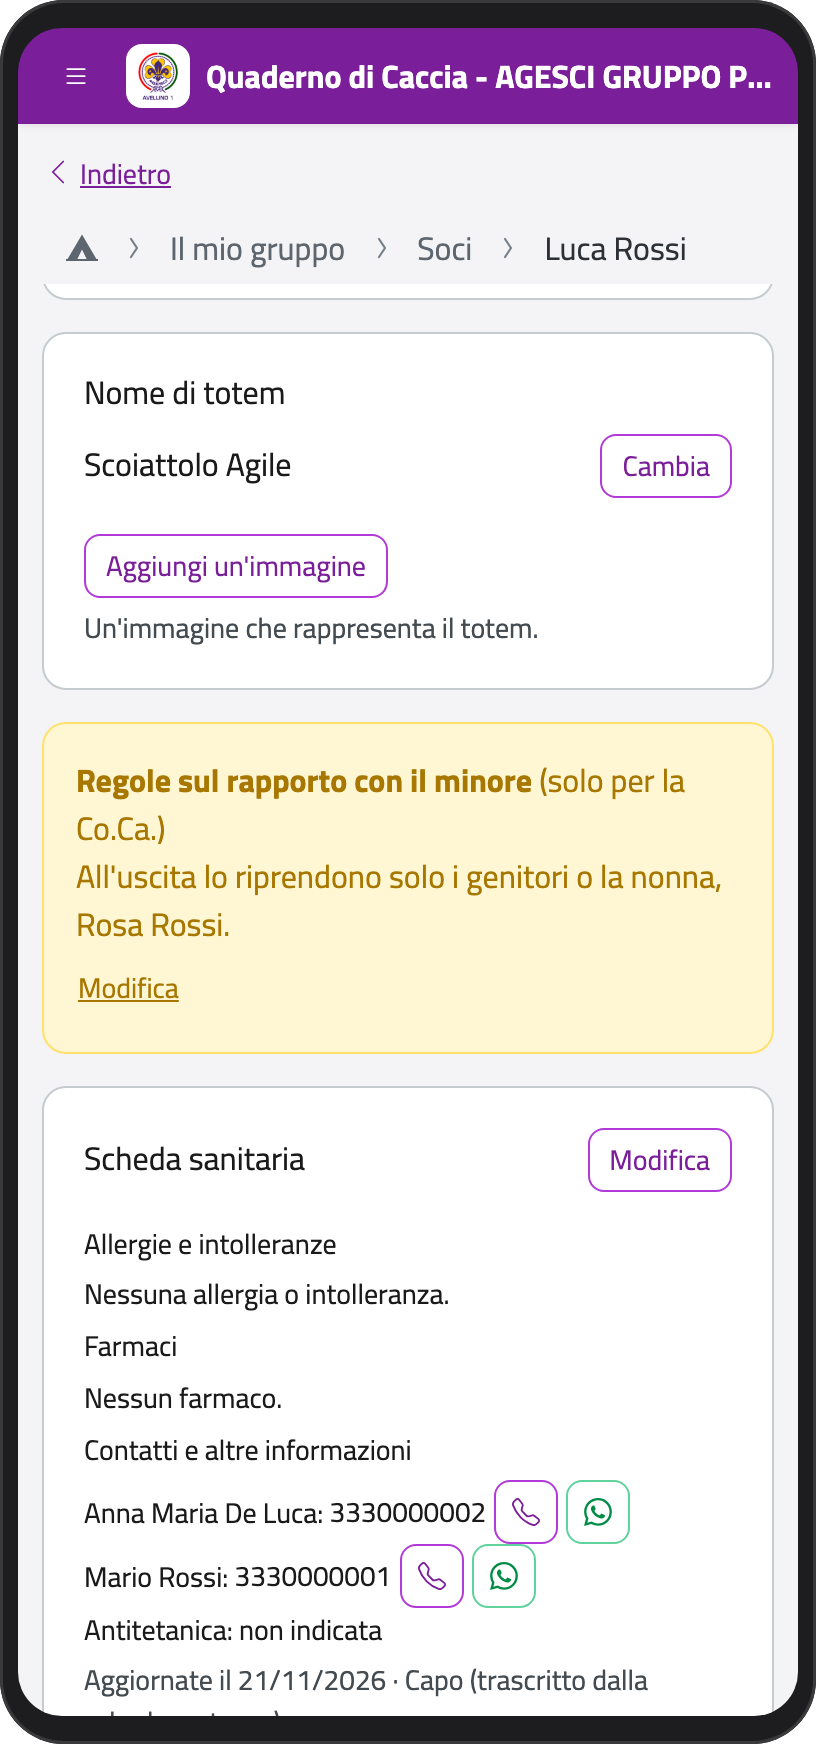
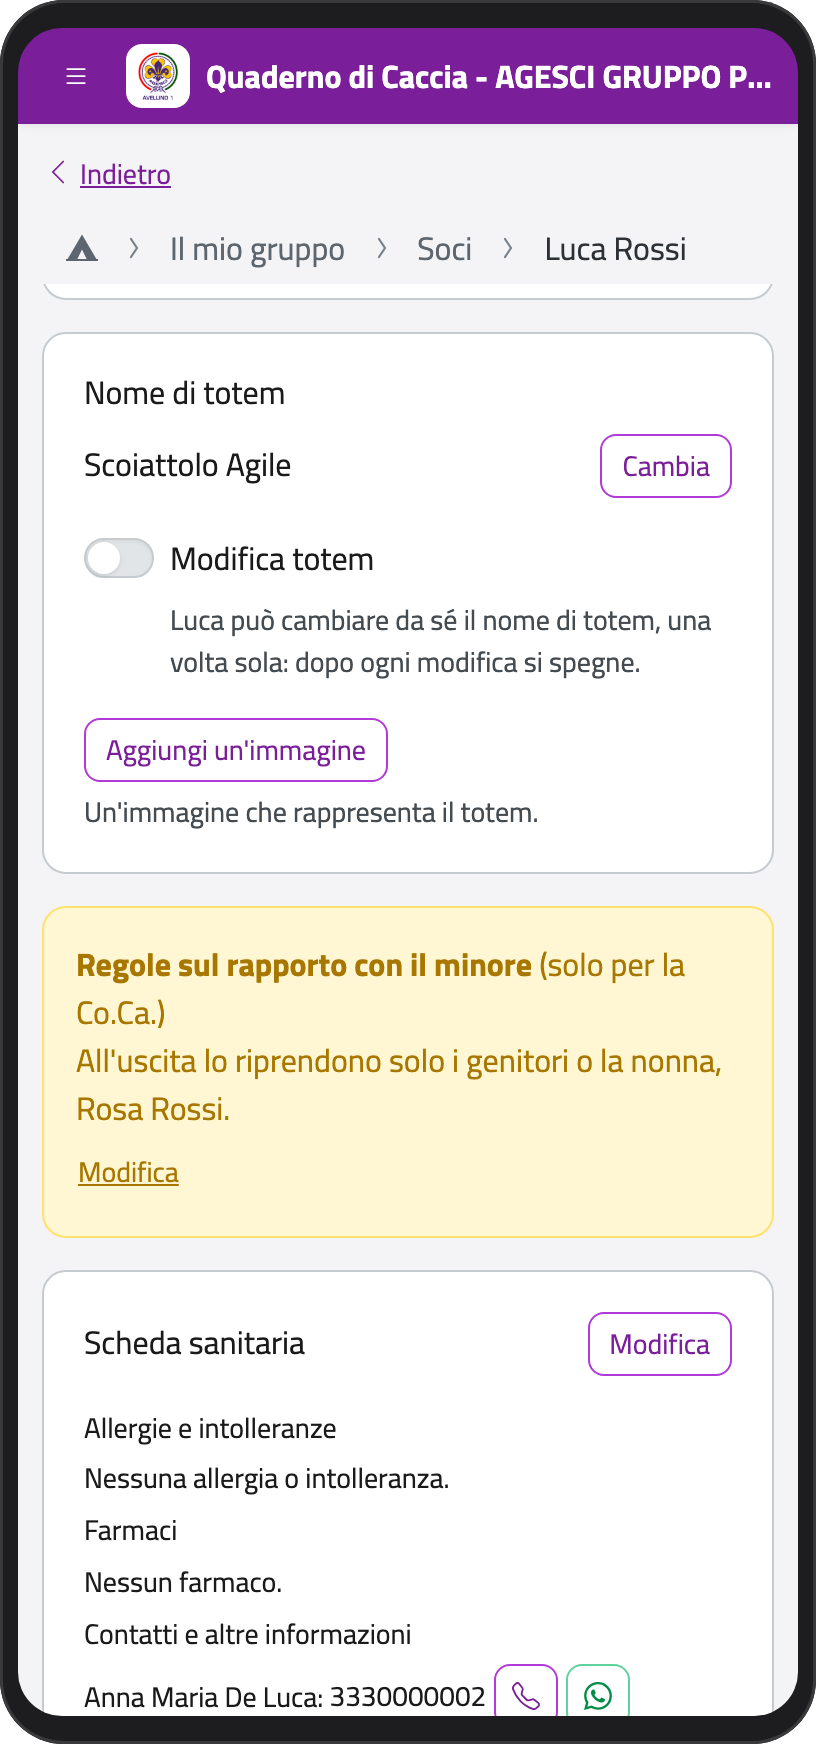
Version 1.38.0
Claude-Session: https://claude.ai/code/session_01FnZgpZh5fbWhbFRbufvRz7

Changed region(s): [[0.0306, 0.3096, 0.9498, 0.9908], [0.7353, 0.7431, 0.8578, 0.7741], [0.8272, 0.3406, 0.8578, 0.3716]]

diff --git a/TODO.md b/TODO.md
@@ -2,7 +2,7 @@
 
 Situazione delle [issue](https://github.com/AGESCI-Avellino-1/quaderno-di-caccia/issues) e delle
 [segnalazioni di sicurezza](https://github.com/AGESCI-Avellino-1/quaderno-di-caccia/security/advisories)
-su GitHub, aggiornata il 23/11/2026 (ultima versione: v1.37.0). Le cose ancora aperte del periodo di
+su GitHub, aggiornata il 23/11/2026 (ultima versione: v1.38.0). Le cose ancora aperte del periodo di
 sviluppo sono in [TODO_SVILUPPO.md](TODO_SVILUPPO.md).
 
 ## Aperte
@@ -12,7 +12,7 @@ sviluppo sono in [TODO_SVILUPPO.md](TODO_SVILUPPO.md).
 | [#83](https://github.com/AGESCI-Avellino-1/quaderno-di-caccia/issues/83) | Lista d'attesa: collegamento a «Invita nel gruppo» per i capi     | Miglioramento | Basso   | Bassa      | VER    |
 | [#85](https://github.com/AGESCI-Avellino-1/quaderno-di-caccia/issues/85) | Nome di totem dei soci e pagina «La mia tribù» (DEC-416)          | Funzione      | Basso   | Media      | VER    |
 | [#86](https://github.com/AGESCI-Avellino-1/quaderno-di-caccia/issues/86) | Compleanni: notifica del giorno e «Prossimi compleanni» (DEC-417) | Funzione      | Basso   | Media      | VER    |
-| [#87](https://github.com/AGESCI-Avellino-1/quaderno-di-caccia/issues/87) | Nome di totem: ognuno si imposta il proprio (DEC-418)             | Miglioramento | Basso   | Media      | WIP    |
+| [#87](https://github.com/AGESCI-Avellino-1/quaderno-di-caccia/issues/87) | Nome di totem: ognuno si imposta il proprio (DEC-418)             | Miglioramento | Basso   | Media      | VER    |
 
 Nessuna segnalazione di sicurezza aperta.
 

diff --git a/CHANGELOG.md b/CHANGELOG.md
@@ -5,6 +5,24 @@ versione installata e quella nuova prima di chiedere se aggiornare. Il dettaglio
 versione, con il manuale in PDF, è nella pagina
 [Releases](https://github.com/AGESCI-Avellino-1/quaderno-di-caccia/releases).
 
+## 1.38.0 — 23 novembre 2026
+
+### Novità
+
+**Nome di totem scritto da sé** ([#87](https://github.com/AGESCI-Avellino-1/quaderno-di-caccia/issues/87)): nella scheda di una persona, il riquadro **Nome di totem** ha l'interruttore **Modifica totem**: chi lo accende permette alla persona di scrivere o cambiare da sé il proprio nome di totem, una volta sola. Lo vede e lo accende qualsiasi capo che ha già un nome di totem, mai per sé stesso; finché nessun capo ne ha uno, i capigruppo. Dopo ogni modifica del nome, chiunque la faccia, l'interruttore si spegne. Il ragazzo/a lo scrive in **Il mio profilo**, dove un messaggio gli dice che può farlo una volta sola; finché non l'ha scritto, **La mia tribù** non mostra niente, e senza nome di totem e con l'interruttore spento non vede alcun riferimento al totem. Lo staff dell'unità e i capigruppo continuano ad assegnarlo come prima.
+
+### Aggiornare
+
+```bash
+scripts/aggiorna.sh v1.38.0
+```
+
+### Documentazione
+
+Il capitolo sui nomi di totem del manuale generico spiega come scrivere il proprio nome di totem e come permetterlo con **Modifica totem**.
+
+Provata con i test. Se qualcosa non va, segnalalo con una issue.
+
 ## 1.37.0 — 23 novembre 2026
 
 ### Novità

diff --git a/docs/installazione/installazione.md b/docs/installazione/installazione.md
@@ -5,12 +5,12 @@
 ```bash
 git clone https://github.com/AGESCI-Avellino-1/quaderno-di-caccia.git /srv/qdc
 cd /srv/qdc
-git checkout v1.37.0
+git checkout v1.38.0
 ```
 
 Installa sempre una **versione rilasciata**: le trovi, con il PDF del manuale d'uso, nella
 pagina [Releases](https://github.com/AGESCI-Avellino-1/quaderno-di-caccia/releases) del
-progetto; al posto di `v1.37.0` metti l'ultima. Il ramo `main` è quello di sviluppo e può
+progetto; al posto di `v1.38.0` metti l'ultima. Il ramo `main` è quello di sviluppo e può
 contenere lavori non ancora provati.
 
 Negli esempi l'installazione è in `/srv/qdc`: se scegli un'altra cartella, cambiala anche
